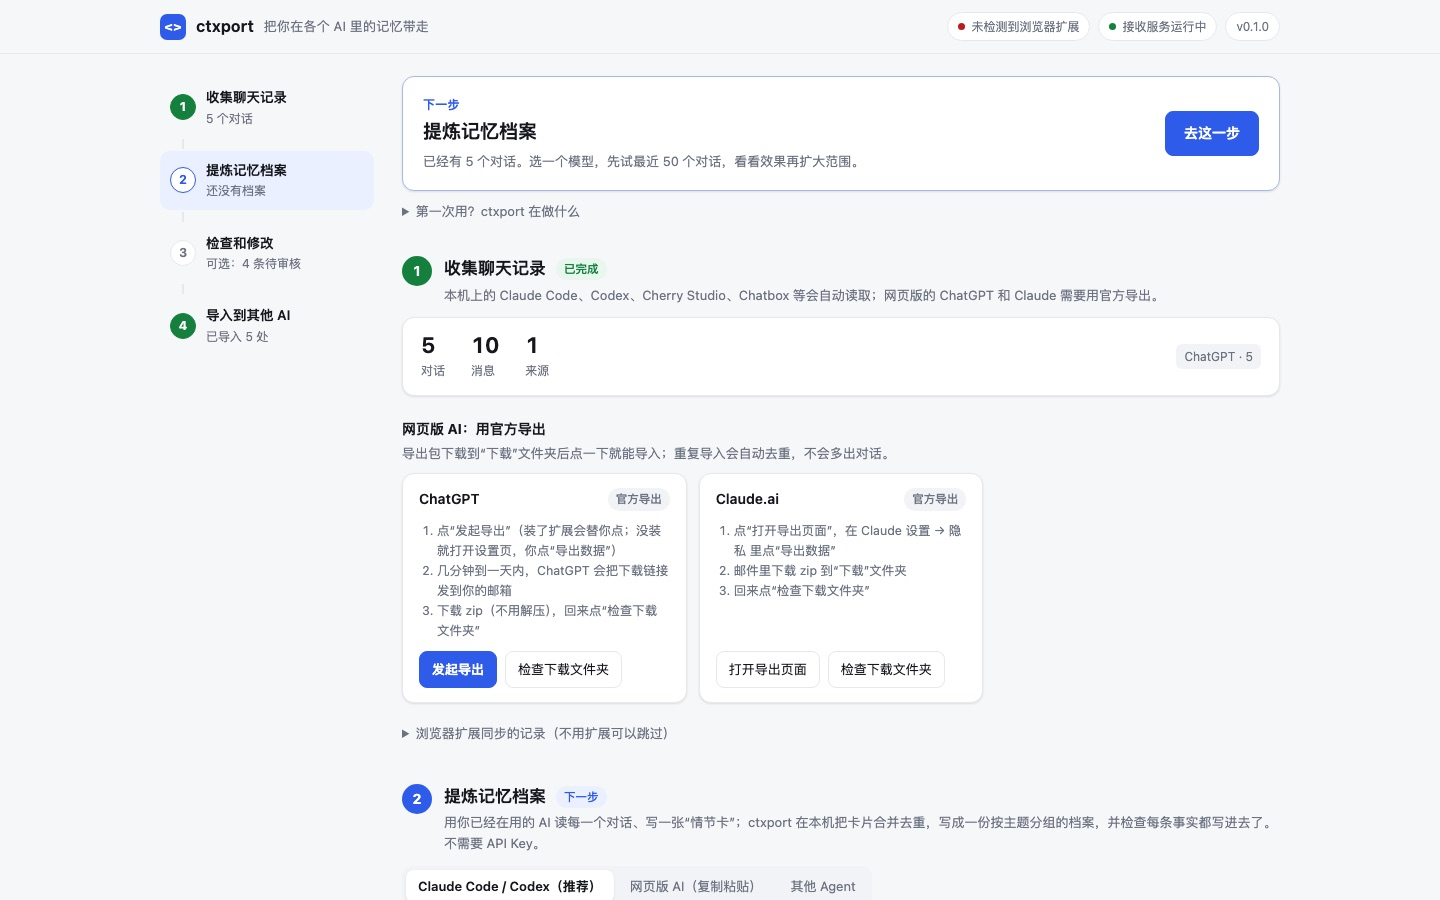
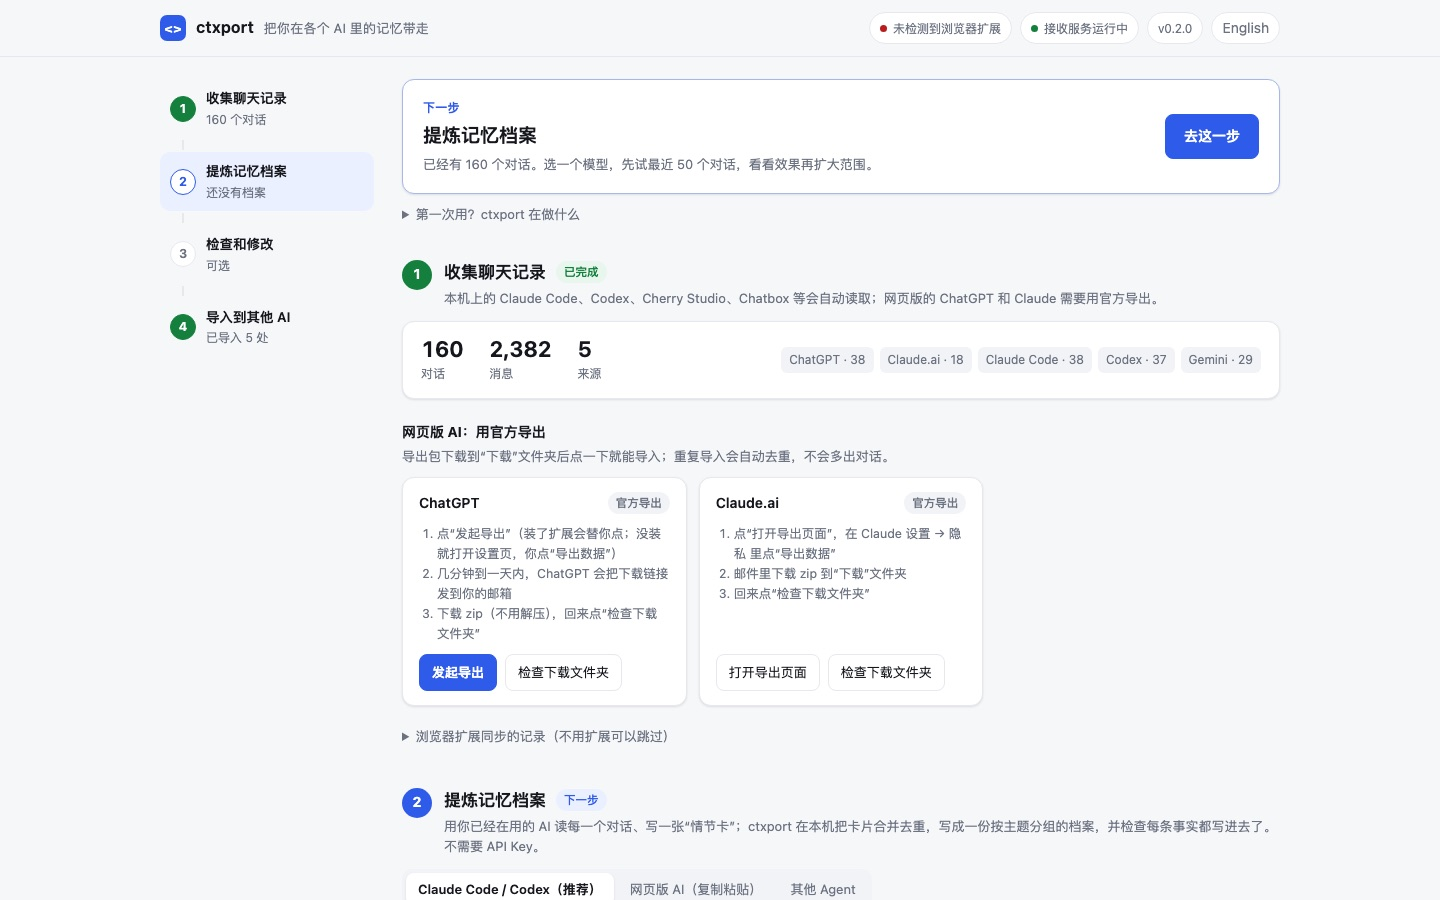
ctxport: v0.2.0 screenshots in English and Chinese, light and dark
The app running on a synthetic demo library (160 generated
conversations across five platforms). Restores the image fields the
previous page rewrite dropped.

diff --git a/src/content/projects/zh/ctxport.md b/src/content/projects/zh/ctxport.md
@@ -7,6 +7,8 @@ kind: "software"
 order: 0.3
 featured: true
 stack: "Python（核心仅用标准库）· SQLite · 浏览器扩展 · MCP"
+image: "/assets/ctxport-app.jpg"
+imageDark: "/assets/ctxport-app-dark.jpg"
 period: "2026 年 11 月至今"
 status: "与合作者共同开发；v0.2.0 已在 GitHub 发布（2026-11-27 核对），尚未发布到 PyPI。"
 links: [{"label": "v0.2.0 发布", "url": "https://github.com/Memoryport/ctxport/releases/tag/v0.2.0"}, {"label": "源码", "url": "https://github.com/Memoryport/ctxport"}]

diff --git a/src/content/projects/en/ctxport.md b/src/content/projects/en/ctxport.md
@@ -7,6 +7,8 @@ kind: "software"
 order: 0.3
 featured: true
 stack: "Python (standard library core) · SQLite · Browser extension · MCP"
+image: "/assets/ctxport-app-en.jpg"
+imageDark: "/assets/ctxport-app-en-dark.jpg"
 period: "Nov 2026 – present"
 status: "Built with collaborators; v0.2.0 released on GitHub (checked 2026-11-27), not yet on PyPI."
 links: [{"label": "v0.2.0 release", "url": "https://github.com/Memoryport/ctxport/releases/tag/v0.2.0"}, {"label": "Source", "url": "https://github.com/Memoryport/ctxport"}]
